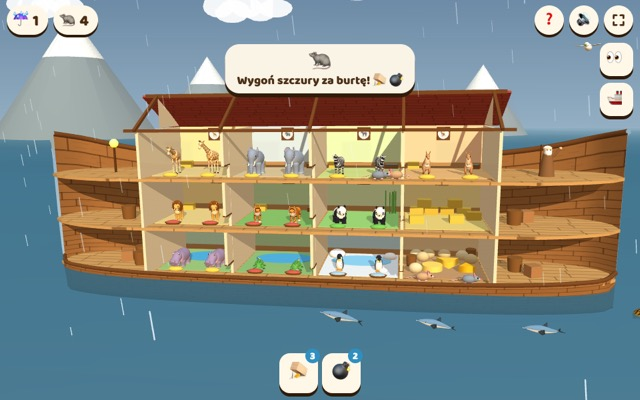
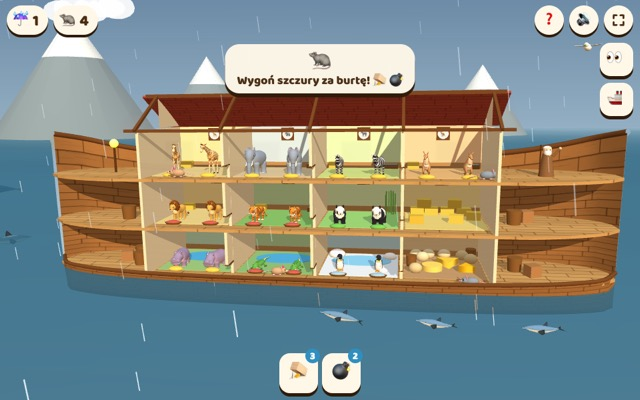
zwierzeta: taxi i żniwa na modelach z Pralni
Jedno źródło zwierząt lądowych. Taxi wozi je na dachu (ZOO.fit dopasowuje
wysokość); w żniwach słoń i żyrafa to pojazdy: ten sam model + siedzisko
(słoń: derka i kosz na bele, żyrafa: siodło), ruch przez ZOO.anim
(a.lift unosi trąbę przy chwytaniu beli).

diff --git a/models/zwierzeta.zniwa.js b/models/zwierzeta.zniwa.js
@@ -1,65 +1,33 @@
-// zwierzeta — wspólne dla: zniwa
-// wymaga z gry: M, T, scene
+// zwierzeta — pojazdy w żniwach: modele z Pralni (ZOO) + siedzisko i kierowca
+// wymaga z gry: M, T, scene, rbox, box, makeFarmer
 'use strict';
+// Grupa w układzie pojazdu, przyczepiona do tułowia (kołysze się z nim); top = grzbiet {y, z}
+function saddle(v, a) {
+  v.updateMatrixWorld(true);
+  const s = new T.Group(), b = new T.Box3().setFromObject(a.body.children[0]);
+  s.applyMatrix4(a.body.matrixWorld.clone().invert()); a.body.add(s);
+  return { s, top:{ y:b.max.y, z:(b.min.z + b.max.z)/2 } };
+}
+function rideAnimal(type, h) {
+  const { g:v, a } = ZOO.fit(type, h); scene.add(v);
+  return { g:v, inner:v, a, wheels:[], steerNodes:[], x:0, z:0, h:0, v:0, steer:0, rpm:0, walk:0, stepN:0, maxR:2.2, turnK:.5 };
+}
 function buildGiraffe() {
-  const v = new T.Group(), P = {}, sh = m => { m.castShadow = true; m.receiveShadow = true; return m; };
-  const sph = (mat, x, y, z, sx, sy, sz, p) => { const m = sh(mesh(new T.SphereGeometry(1, 18, 14), mat, x, y, z, p)); m.scale.set(sx, sy, sz); return m; };
-  const body = new T.Group(); v.add(body); P.body = body;
-  const torso = sph(M.gir, 0, 2.55, 0, .62, .7, 1.3, body); torso.rotation.x = -.16;
-  sph(M.gir, 0, 2.78, .82, .55, .74, .62, body); sph(M.gir, 0, 2.38, -.95, .56, .6, .55, body); sph(M.girL, 0, 2.05, 0, .45, .3, 1.0, body);
-  // szyja z grzywą
-  const neck = new T.Group(); neck.position.set(0, 3.0, 1.0); neck.rotation.order = 'YXZ'; body.add(neck); P.neck = neck;
-  sh(mesh(new T.CylinderGeometry(.17, .31, 2.55, 14), M.gir, 0, 1.2, 0, neck));
-  sh(box(.07, 2.35, .12, M.girD, 0, 1.3, -.23, neck));
-  // głowa
-  const head = new T.Group(); head.position.set(0, 2.45, 0); neck.add(head); P.head = head;
-  sph(M.gir, 0, .1, .1, .2, .21, .3, head); sph(M.girL, 0, .04, .47, .145, .13, .3, head); sph(M.girD, 0, .05, .74, .1, .085, .06, head);
-  [-.09, .09].forEach(x => { sh(cylY(.03, .24, M.girL, x, .37, .0, head, 8)); sph(M.girD, x, .5, 0, .05, .05, .05, head);
-    sph(M.girD, x*1.9, .14, .22, .05, .05, .05, head); const w = mesh(new T.SphereGeometry(.016, 6, 5), M.eyeW, x*2.15, .16, .25, head);
-    sph(M.girD, x*.6, .08, .76, .02, .02, .02, head); });
-  P.ears = [-1, 1].map(s => { const e = sh(mesh(new T.ConeGeometry(.075, .3, 6), M.girL, s*.3, .24, -.04, head)); e.rotation.z = -s*1.25; e.scale.z = .45; return e; });
-  P.jaw = new T.Group(); P.jaw.position.set(0, -.07, .18); head.add(P.jaw);
-  sh(box(.2, .06, .44, M.girL, 0, 0, .22, P.jaw)); box(.08, .025, .24, M.tongue, 0, .035, .42, P.jaw);
-  // nogi: biodro → kolano → kopyto
-  P.legs = [[.33, 2.25, .85, 1.15, 1.1], [-.33, 2.25, .85, 1.15, 1.1], [.33, 2.1, -.9, 1.08, 1.02], [-.33, 2.1, -.9, 1.08, 1.02]].map(L => {
-    const hip = new T.Group(); hip.position.set(L[0], L[1], L[2]); body.add(hip);
-    sh(mesh(new T.CylinderGeometry(.16, .1, L[3], 10), M.gir, 0, -L[3]/2, 0, hip)); sph(M.gir, 0, -L[3], 0, .11, .11, .11, hip);
-    const knee = new T.Group(); knee.position.y = -L[3]; hip.add(knee);
-    sh(mesh(new T.CylinderGeometry(.09, .075, L[4] - .14, 10), M.girL, 0, -(L[4] - .14)/2, 0, knee)); sh(mesh(new T.CylinderGeometry(.085, .11, .14, 10), M.hoof, 0, -L[4] + .07, 0, knee));
-    return { hip, knee }; });
-  // ogon
-  P.tail = new T.Group(); P.tail.position.set(0, 2.6, -1.4); P.tail.rotation.x = -.25; body.add(P.tail);
-  sh(cylY(.03, .95, M.girL, 0, -.47, 0, P.tail, 6)); sh(mesh(new T.ConeGeometry(.09, .4, 6), M.girD, 0, -1.1, 0, P.tail));
-  const driver = makeFarmer(.2); driver.position.set(0, 3.24, -.1); body.add(driver);
-  scene.add(v);
-  return { g:v, inner:v, P, wheels:[], steerNodes:[], driver, x:0, z:0, h:0, v:0, steer:0, rpm:0, walk:0, stepN:0, eat:0, chew:0, lastCrunch:0,
-    maxF:5.7, maxR:2.2, turnK:.5, turnRate:2.4, radius:1.9, yaw:0, ta:0, td:3, tx:0, tz:0, eye:new T.Vector3(0, 3.95, -.25), look:new T.Vector3(0, 3.3, 8),
-    chase:[11.5, 7], lookY:2.6, dust:[[.33, .85], [-.33, -.9]], baleFrom:new T.Vector3(0, 2.2, -1.5), baleTo:new T.Vector3(0, .32, -3) };
+  const G = rideAnimal('giraffe', 5.6), { s, top } = saddle(G.g, G.a);
+  rbox(.9, .08, 1.0, M.blanket, 0, top.y - .04, top.z, s, .03);
+  const driver = makeFarmer(.2); driver.position.set(0, top.y - .02, top.z); s.add(driver);
+  return Object.assign(G, { P:{ basket:s }, driver, eat:0, chew:0, lastCrunch:0, maxF:5.7, turnRate:2.4, radius:1.9, yaw:0, ta:0, td:3, tx:0, tz:0,
+    eye:new T.Vector3(0, top.y + .7, top.z - .15), look:new T.Vector3(0, 3.3, 8), chase:[11.5, 7], lookY:2.6, dust:[[.33, .85], [-.33, -.9]],
+    baleFrom:new T.Vector3(0, 2.2, -1.5), baleTo:new T.Vector3(0, .32, -3) });
 }
 function buildElephant() {
-  const v = new T.Group(), P = {}, sh = m => { m.castShadow = true; m.receiveShadow = true; return m; };
-  const sph = (mat, x, y, z, sx, sy, sz, p, seg) => { const m = sh(mesh(new T.SphereGeometry(1, seg || 18, seg ? 6 : 14), mat, x, y, z, p)); m.scale.set(sx, sy, sz); return m; };
-  const body = new T.Group(); v.add(body); P.body = body;
-  sph(M.eleph, 0, 2.25, -.1, 1.15, 1.1, 1.7, body); sph(M.eleph, 0, 2.42, .95, 1.02, 1.02, .85, body); sph(M.eleph, 0, 2.2, -1.1, 1.05, 1.0, .8, body);
-  const head = new T.Group(); head.position.set(0, 2.75, 1.8); body.add(head); P.head = head;
-  sph(M.eleph, 0, 0, 0, .72, .8, .72, head); sph(M.eleph, 0, .48, -.08, .52, .36, .5, head);
-  [-1, 1].forEach(s => { sph(M.girD, s*.44, .12, .5, .06, .07, .06, head, 8); sh(hose([[s*.3, -.35, .42], [s*.38, -.78, .72], [s*.42, -.9, 1.15], [s*.37, -.74, 1.5]], .07, M.ivory, head)); });
-  P.ears = [-1, 1].map(s => { const e = new T.Group(); e.position.set(s*.58, .15, -.15); sph(M.elephD, s*.58, -.12, 0, .62, .85, .07, e); head.add(e); return e; });
-  P.trunk = []; { let par = head; const lens = [.5, .48, .46, .44, .42], rs = [.3, .25, .21, .17, .13, .1];
-    for (let i = 0; i < 5; i++) { const g = new T.Group(); g.position.set(0, i ? -lens[i - 1] : -.32, i ? 0 : .52); par.add(g);
-      sh(mesh(new T.CylinderGeometry(rs[i], rs[i + 1], lens[i] + .08, 10), M.eleph, 0, -lens[i]/2, 0, g)); P.trunk.push(g); par = g; } }
-  P.legs = [[.62, 1.65, .95], [-.62, 1.65, .95], [.62, 1.6, -1.05], [-.62, 1.6, -1.05]].map(L => { const hip = new T.Group(); hip.position.set(L[0], L[1], L[2]); body.add(hip);
-    sh(mesh(new T.CylinderGeometry(.37, .3, L[1], 12), M.eleph, 0, -L[1]/2, 0, hip)); sh(mesh(new T.CylinderGeometry(.32, .35, .16, 12), M.elephD, 0, -L[1] + .08, 0, hip));
-    [-1, 0, 1].forEach(a => sph(M.ivory, a*.15, -L[1] + .07, .3 - Math.abs(a)*.04, .07, .07, .05, hip, 8)); return hip; });
-  P.tail = new T.Group(); P.tail.position.set(0, 2.5, -1.85); P.tail.rotation.x = -.2; body.add(P.tail);
-  sh(cylY(.05, 1.0, M.eleph, 0, -.5, 0, P.tail, 6)); sh(mesh(new T.ConeGeometry(.1, .32, 6), M.girD, 0, -1.1, 0, P.tail));
+  const E = rideAnimal('elephant', 3.6), { s, top } = saddle(E.g, E.a), y = top.y, z = top.z;
   // derka i kosz na słomę
-  sh(rbox(2.0, .1, 2.3, M.blanket, 0, 3.3, -.35, body, .05)); [1.1, -1.1].forEach(x => { sh(rbox(.08, .95, 2.1, M.blanket, x, 2.86, -.35, body, .03)); box(.09, .1, 2.1, M.impY, x, 2.42, -.35, body); });
-  P.basket = new T.Group(); P.basket.position.set(0, 3.38, -.72); body.add(P.basket);
-  sh(rbox(2.4, .1, 2.3, M.woodL, 0, 0, 0, P.basket, .03)); [1.15, -1.15].forEach(z => box(2.4, .3, .06, M.woodL, 0, .2, z, P.basket)); [1.2, -1.2].forEach(x => box(.06, .3, 2.3, M.woodL, x, .2, 0, P.basket));
-  const driver = makeFarmer(.3); driver.position.set(0, 3.32, .85); body.add(driver);
-  scene.add(v);
-  return { g:v, inner:v, P, wheels:[], steerNodes:[], driver, x:0, z:0, h:0, v:0, steer:0, rpm:0, walk:0, stepN:0, grab:0,
-    maxF:5.4, maxR:2.0, turnK:.5, turnRate:2.2, radius:2.4, eye:new T.Vector3(0, 4.5, .3), look:new T.Vector3(0, 3.5, 9),
-    chase:[13.5, 7.5], lookY:2.4, dust:[[.62, .95], [-.62, -1.05]] };
+  rbox(2.0, .1, 2.3, M.blanket, 0, y - .05, z - .35, s, .05);
+  [1.1, -1.1].forEach(x => { rbox(.08, .95, 2.1, M.blanket, x, y - .49, z - .35, s, .03); box(.09, .1, 2.1, M.impY, x, y - .93, z - .35, s); });
+  const basket = new T.Group(); basket.position.set(0, y + .03, z - .72); s.add(basket);
+  rbox(2.4, .1, 2.3, M.woodL, 0, 0, 0, basket, .03); [1.15, -1.15].forEach(q => box(2.4, .3, .06, M.woodL, 0, .2, q, basket)); [1.2, -1.2].forEach(x => box(.06, .3, 2.3, M.woodL, x, .2, 0, basket));
+  const driver = makeFarmer(.3); driver.position.set(0, y - .03, z + 1.2); s.add(driver);
+  return Object.assign(E, { P:{ basket }, driver, grab:0, maxF:5.4, maxR:2.0, turnRate:2.2, radius:2.4,
+    eye:new T.Vector3(0, y + 1.15, z + 1.4), look:new T.Vector3(0, 3.5, 9), chase:[13.5, 7.5], lookY:2.4, dust:[[.62, .95], [-.62, -1.05]] });
 }

diff --git a/zniwa/game.js b/zniwa/game.js
@@ -449,23 +449,13 @@ function updateLugs(P, t) { let i = 0;
 /* =====================================================================
    ŻYRAFA (trzeci „pojazd”: zjada łan, jedzie się na grzbiecie)
    ===================================================================== */
-const girTex = tex(256, 256, (g, w) => { g.fillStyle = '#f3deb0'; g.fillRect(0, 0, w, w);
-  const n = 6, c = w/n;
-  for (let i = 0; i < n; i++) for (let j = 0; j < n; j++) { const cx = (i + .5)*c + rr(-7, 7), cy = (j + .5)*c + rr(-7, 7), k = 6 + ((rnd()*3) | 0);
-    g.fillStyle = ['#9a5a22', '#8a4c1a', '#a8642a'][(i + j*2) % 3]; g.beginPath();
-    for (let q = 0; q < k; q++) { const a = q/k*6.283 + rr(-.2, .2), r = c*rr(.36, .47), x = cx + Math.cos(a)*r, y = cy + Math.sin(a)*r; q ? g.lineTo(x, y) : g.moveTo(x, y); }
-    g.closePath(); g.fill(); } }, 2, 2);
-Object.assign(M, { gir:lam(0xffffff, { map:girTex }), girL:lam(0xf3deb0), girD:lam(0x5a3414), hoof:lam(0x2d2118), tongue:lam(0x6b4a86), eyeW:new T.MeshBasicMaterial({ color:0xffffff }) });
 
 const uncutAt = (x, z) => { const cx = Math.floor(x - X0), cz = Math.floor(z - Z0); return cx >= 0 && cz >= 0 && cx < FW && cz < FD && !cut[cz*FW + cx]; };
 function updateGiraffe(dt) {
-  const G = veh.giraffe, P = G.P, on = S.active === 'giraffe', sp = Math.abs(G.v), amt = Math.min(1, sp/1.5);
-  G.walk += sp*dt*1.5;
-  P.legs.forEach((L, i) => { const ph = G.walk + (i % 2 ? Math.PI : 0) + (i > 1 ? .5 : 0);
-    L.hip.rotation.x = Math.sin(ph)*.42*amt; L.knee.rotation.x = Math.max(0, Math.sin(ph + 1.3))*.75*amt; });
-  P.body.position.y = Math.abs(Math.sin(G.walk))*.07*amt;
+  const G = veh.giraffe, a = G.a, on = S.active === 'giraffe', sp = Math.abs(G.v), amt = Math.min(1, sp/1.5);
+  G.walk += sp*dt*1.5; a.moving = amt > .1; a.gait = sp*3;
   const stepN = Math.floor(G.walk/Math.PI); if (stepN !== G.stepN) { G.stepN = stepN; if (on && amt > .2) sfx.step(); }
-  P.tail.rotation.z = Math.sin(time*2.3)*.35; P.ears[0].rotation.x = Math.sin(time*3.1)*.2; P.ears[1].rotation.x = Math.sin(time*2.6 + 2)*.2;
+  ZOO.anim(a, dt);
   let want = 0;                                    // czy przed pyskiem coś rośnie?
   if (on) { const sh = Math.sin(G.h), ch = Math.cos(G.h);
     const R = 5.4; let best = 1e9;                 // szuka najbliższej rośliny dookoła, nie tylko z przodu
@@ -474,36 +464,34 @@ function updateGiraffe(dt) {
       const sc = d + Math.abs(an)*.9; if (sc < best) { best = sc; want = 1; G.tx = wx; G.tz = wz; G.ta = an; G.td = d; } } }
   G.eat += (want - G.eat)*Math.min(1, dt*6);
   G.yaw += ((want ? G.ta : 0) - G.yaw)*Math.min(1, dt*7); const near = 1 - clamp((G.td - 1.5)/3, 0, 1);
-  P.neck.rotation.set(.36 + G.eat*(1.75 + near*.55) + Math.sin(G.walk*2)*.03*amt, G.yaw*G.eat + Math.sin(time*5)*.07*G.eat, 0);
-  P.head.rotation.x = .32 - G.eat*1.3;
+  // szyja w dół, do najbliższej rośliny (ZOO.anim ustawia tylko pochylenie bazowe)
+  a.neck.rotation.z -= G.eat*(1.6 + near*.5); a.neck.rotation.y = G.yaw*G.eat + Math.sin(time*5)*.07*G.eat; a.head.rotation.z += G.eat*1.1;
   if (on && want && G.eat > .7 && Math.abs(G.yaw - G.ta) < .6) {
     const hx = G.tx, hz = G.tz, before = cutCount;
     for (let a = -1.1; a <= 1.11; a += 1.1) for (let b = -1.1; b <= 1.11; b += 1.1) harvestAt(hx + a, hz + b);
     if (cutCount > before) { G.chew = 1; if (time - G.lastCrunch > .14) { G.lastCrunch = time; sfx.crunch(); } } }
   G.chew = Math.max(0, G.chew - dt*1.1);
-  P.jaw.rotation.x = Math.abs(Math.sin(time*11))*.4*Math.min(1, G.chew*3);
+  a.open = Math.max(a.open, Math.abs(Math.sin(time*11))*Math.min(1, G.chew*3));
 }
 
 /* =====================================================================
    DUŻY TRAKTOR Z NARZĘDZIAMI (pług, siewnik, prasa) I SŁOŃ
    ===================================================================== */
-Object.assign(M, { bBlue:pho(0x1f5fb8), bBlueD:pho(0x174a90), eleph:lam(0x8f9199), elephD:lam(0x73757c), ivory:lam(0xf5efdc), blanket:lam(0xc23b2e),
+Object.assign(M, { bBlue:pho(0x1f5fb8), bBlueD:pho(0x174a90), blanket:lam(0xc23b2e),
   imp:pho(0xd8301f), impY:pho(0xf2c21f), soilP:lam(0x4e3520) });
 
 const TOOLS = ['plough', 'seeder', 'baler'], TOOL_Z = { plough:-4.3, seeder:-4.0, baler:-3.3 }, TOOL_LBL = { plough:['🟤', 'Pług'], seeder:['🌱', 'Siewnik'], baler:['🌀', 'Prasa'] };
 
-const TRUNK = { rest:[-.25, -.1, .15, .35, .5], reach:[-1.0, -.25, 0, .1, .25], lift:[-2.3, -.5, -.45, -.35, -.25] };
+// uniesienie trąby (ZOO a.lift) w fazach chwytania beli: sięga w dół, podnosi, wraca
+const TRUNK = { rest:0, reach:-.6, lift:2.2 };
 function updateElephant(dt) {
-  const E = veh.elephant, P = E.P, on = S.active === 'elephant', sp = Math.abs(E.v), amt = Math.min(1, sp/1.5);
-  E.walk += sp*dt*1.15;
-  P.legs.forEach((L, i) => { L.rotation.x = Math.sin(E.walk + (i === 0 || i === 3 ? 0 : Math.PI))*.3*amt; });
-  P.body.position.y = Math.abs(Math.sin(E.walk))*.06*amt; P.body.rotation.z = Math.sin(E.walk)*.025*amt;
+  const E = veh.elephant, a = E.a, on = S.active === 'elephant', sp = Math.abs(E.v), amt = Math.min(1, sp/1.5);
+  E.walk += sp*dt*1.15; a.moving = amt > .1; a.gait = sp*2.3;
   const stepN = Math.floor(E.walk/Math.PI); if (stepN !== E.stepN) { E.stepN = stepN; if (on && amt > .2) sfx.estep(); }
-  P.tail.rotation.z = Math.sin(time*1.8)*.3; P.ears[0].rotation.y = -.45 - Math.sin(time*2.2)*.3; P.ears[1].rotation.y = .45 + Math.sin(time*2.2 + .6)*.3;
   E.grab = Math.max(0, E.grab - dt*1.3); const p = E.grab > 0 ? 1 - E.grab : 1;
-  let a = TRUNK.rest, b = TRUNK.rest, k = 0; if (p < .3) { b = TRUNK.reach; k = p/.3; } else if (p < .65) { a = TRUNK.reach; b = TRUNK.lift; k = (p - .3)/.35; } else if (p < 1) { a = TRUNK.lift; k = (p - .65)/.35; }
-  const sway = Math.sin(time*1.5)*.08; P.trunk.forEach((g, i) => { g.rotation.x = a[i] + (b[i] - a[i])*k + (i > 1 ? sway : 0); });
-  P.head.rotation.x = Math.sin(E.walk*2)*.03*amt;
+  const lerp = T.MathUtils.lerp;
+  a.lift = p < .3 ? lerp(TRUNK.rest, TRUNK.reach, p/.3) : p < .65 ? lerp(TRUNK.reach, TRUNK.lift, (p - .3)/.35) : lerp(TRUNK.lift, TRUNK.rest, Math.min(1, (p - .65)/.35));
+  ZOO.anim(a, dt);
 }
 
 /* =====================================================================

diff --git a/taxi/game.js b/taxi/game.js
@@ -915,8 +915,10 @@ const beacon = new T.Group(), outP = pedMats(0xf08a2a), arrow = new T.Group();
   const geo = new T.ExtrudeGeometry(s, { depth:.4, bevelEnabled:false }); geo.rotateX(Math.PI/2);
   arrow.userData.m = new T.MeshBasicMaterial({ color:0x35e04a, fog:false, depthTest:false, transparent:true }); const edge = new T.MeshBasicMaterial({ color:0x1c1c1e, fog:false, depthTest:false, transparent:true });
   const dial = new T.Group(), e = new T.Mesh(geo, edge); e.scale.set(1.2, 1, 1.12); e.position.y = -.14; e.renderOrder = 9; dial.add(e); const a = new T.Mesh(geo, arrow.userData.m); a.renderOrder = 10; dial.add(a); arrow.add(dial); arrow.userData.dial = dial; arrow.rotation.order = 'YXZ'; arrow.visible = false; scene.add(arrow); }
-const ZOOA = [{ name:'Żyrafa', ico:'🦒', g:mkGiraffe(), s:.8, rs:.4, top:5.6, snd:'hum' }, { name:'Słoń', ico:'🐘', g:mkElephant(), s:.75, rs:.36, top:3.4, snd:'trumpet' }, { name:'Lew', ico:'🦁', g:mkLion(), s:1.15, rs:.62, top:2.2, snd:'roar' },
-  { name:'Pingwin', ico:'🐧', g:mkPenguin(), s:1.9, rs:1.1, top:2.4, snd:'peep' }, { name:'Krowa', ico:'🐄', g:cloneTpl(cowTpl[0], true), s:1.1, rs:.55, top:2.6, snd:'moo' }];
+// zwierzęta z Pralni (models/zwierzeta.js), dopasowane wysokością; ruch przez anims
+const zoo = (type, h) => { const { g, a } = ZOO.fit(type, h); let last = 0; anims.push(t => { ZOO.anim(a, Math.min(.1, t - last)); last = t; }); return g; };
+const ZOOA = [{ name:'Żyrafa', ico:'🦒', g:zoo('giraffe', 6.2), s:.8, rs:.4, top:5.6, snd:'hum' }, { name:'Słoń', ico:'🐘', g:zoo('elephant', 3.15), s:.75, rs:.36, top:3.4, snd:'trumpet' }, { name:'Lew', ico:'🦁', g:zoo('lion', 1.4), s:1.15, rs:.62, top:2.2, snd:'roar' },
+  { name:'Pingwin', ico:'🐧', g:zoo('penguin', .9), s:1.9, rs:1.1, top:2.4, snd:'peep' }, { name:'Krowa', ico:'🐄', g:cloneTpl(cowTpl[0], true), s:1.1, rs:.55, top:2.6, snd:'moo' }];
 ZOOA.forEach(a => { a.g.visible = false; a.busy = false; scene.add(a.g); });
 const ROOF = { taxi:[1.74, -.35], race:[1.2, -1.75], bus:[2.98, -.5], ursus:[1.22, .75], police:[1.74, -1.1], plane:[2.3, .6] };
 function mountAnimal(a, i) { const r = ROOF[AK]; pc.inner.add(a.g); a.g.position.set(0, r[0], r[1] + (AK === 'bus' ? ((i || 0) - 1)*2.6 : 0)); a.g.rotation.set(0, 0, 0); a.g.scale.setScalar(a.rs/(AK === 'ursus' ? 1.35 : 1)); a.g.visible = true; }
@@ -1102,7 +1104,7 @@ function hoopsStep(dt) {
    WYDARZENIA W MIEŚCIE: ucieczka pingwinów, złodziej lodów, deszcz gwiazdek
    ===================================================================== */
 const evPeng = [], evStars = [];
-for (let k = 0; k < 6; k++) { const g = mkPenguin(); g.scale.setScalar(2.1); g.visible = false; scene.add(g); evPeng.push({ g, on:false, x:0, z:0, h:0 }); }
+for (let k = 0; k < 6; k++) { const g = zoo('penguin', .9); g.scale.setScalar(2.1); g.visible = false; scene.add(g); evPeng.push({ g, on:false, x:0, z:0, h:0 }); }
 for (let k = 0; k < 18; k++) { const m = new T.Mesh(starGeo, starMat); m.visible = false; scene.add(m); evStars.push({ m, on:false, x:0, z:0 }); }
 const thief = { g:vc(aiModel(0x8e3fc2, 2)), R:2, vmax:13.5, thief:true, off:true };
 { const pk = new T.MeshBasicMaterial({ color:0xff8fc8 }), wf = new T.MeshBasicMaterial({ color:0xe0a85a }), rd = new T.MeshBasicMaterial({ color:0xff2a1a, fog:false });

diff --git a/models/zwierzeta.js b/models/zwierzeta.js
@@ -4,6 +4,7 @@
 const ZOO = (() => {
 'use strict';
 const T=THREE,PI=Math.PI,cfg={scale:1,cast:true};
+const lerp=(a,b,t)=>a+(b-a)*t;
 const rnd=(a=1,b)=>b===undefined?Math.random()*a:a+Math.random()*(b-a);
 const pick=a=>a[Math.random()*a.length|0];
 const V=(x=0,y=0,z=0)=>new T.Vector3(x,y,z);
@@ -199,8 +200,10 @@ function anim(a,dt){a.t+=dt;const walk=a.moving&&!a.slide;if(walk)a.ph+=dt*a.gai
   if(a.neck)a.neck.rotation.z=a.neckBase+Math.sin(a.t*.9+a.seed)*.04+a.blown*.08-ek*(a.type==='giraffe'?1.05:.55);
   a.blink-=dt;if(a.blink<-.12)a.blink=rnd(2,5);const by=(a.blink<0||a.tickle>.6)?.15:1;for(const e of a.eyes)e.scale.y=by;
   const op=happy?1:(a.tickle>.3?.6:(Math.sin(a.t*.5+a.seed)>.93?.8:0));a.open+=(op-a.open)*Math.min(1,dt*8);if(a.jaw)a.jaw.rotation.z=-a.open*.55;
-  for(let i=0;i<a.trunk.length;i++){const g=a.trunk[i],lift=happy?(i===0?.5:i<5?.38:.1):0;g.rotation.z+=(g.userData.b+lift+Math.sin(a.t*1.8+i*.5)*.05+a.tickle*Math.sin(a.t*20+i)*.04-g.rotation.z)*Math.min(1,dt*8);}
+  for(let i=0;i<a.trunk.length;i++){const g=a.trunk[i],lift=(happy?1:a.lift||0)*(i===0?.5:i<5?.38:.1);g.rotation.z+=(g.userData.b+lift+Math.sin(a.t*1.8+i*.5)*.05+a.tickle*Math.sin(a.t*20+i)*.04-g.rotation.z)*Math.min(1,dt*8);}
   for(let i=0;i<a.ctail.length;i++)a.ctail[i].rotation.y=Math.sin(a.t*2.2-i*.6)*.13*(walk?1.6:1)*(happy?2:1);}
 const MK={elephant:mkElephant,giraffe:mkGiraffe,zebra:mkZebra,hippo:mkHippo,crocodile:mkCroc,lion:mkLion,tiger:mkTiger,panda:mkPanda,penguin:mkPenguin,kangaroo:mkKangaroo};
-return {cfg,MK,anim,rnd,pick,V,canvasTex,M,MT,cg,G,mesh,ball,box,grp,merge,flat,mergeC,mW,mK,MV,texGir,texZeb,texTig};
+// model dla innych gier: przód +Z, środek długości w 0, wysokość h; k = skala świata
+function fit(type,h){const a=MK[type](),g=new T.Group(),w=grp(g),k=h/a.dims.h;w.add(a.root);a.root.position.x=-a.cx;w.rotation.y=-PI/2;w.scale.setScalar(k);return {g,a,k:k*a.root.scale.x};}
+return {cfg,MK,fit,anim,rnd,pick,V,canvasTex,M,MT,cg,G,mesh,ball,box,grp,merge,flat,mergeC,mW,mK,MV,texGir,texZeb,texTig};
 })();

diff --git a/galeria/modele.js b/galeria/modele.js
@@ -10,14 +10,17 @@ const MORZE = [['delfin', 'Dolphin'], ['wieloryb', 'Whale'], ['rekin', 'Shark'],
 
 const MODELE = [
   ...ZOO.map(([typ, f]) => ({ kat: 'zwierzęta', typ, gra: 'pralnia', plik: '', js: `ZOO.MK.${f}()` })),
+  // pojazdy w żniwach: ten sam model + siedzisko
+  { kat: 'zwierzęta', typ: 'słoń', gra: 'zniwa', js: 'buildElephant()' },
+  { kat: 'zwierzęta', typ: 'żyrafa', gra: 'zniwa', js: 'buildGiraffe()' },
   { kat: 'zwierzęta', typ: 'szczur', gra: 'arka', js: 'ratGeo(0x8794a6, 0xb7c0cc, false)' },
   { kat: 'zwierzęta', typ: 'szczur', gra: 'arka', js: 'ratGeo(0xc9a27e, 0xe6cdb0, true)' },
 
   ...MORZE.map(([typ, f]) => ({ kat: 'morze', typ, gra: 'rafa', plik: '', js: `make${f}()` })),
-  ...['Clown', 'Puffer', 'Crab', 'Octo', 'Moray'].map(f => ({ kat: 'morze', typ: f.toLowerCase(), gra: 'rafa', js: `make${f}()` })),
-  { kat: 'morze', typ: 'konik morski', gra: 'rafa', js: 'seahorseGeo()' },
-  { kat: 'morze', typ: 'meduza', gra: 'rafa', js: 'jellyGeos()' },
-  ...RAFA_RYBY.map(k => ({ kat: 'morze', typ: 'ryba ' + k, gra: 'rafa', js: `speciesGeo('${k}')` })),
+  ...['Clown', 'Puffer', 'Crab', 'Octo', 'Moray'].map(f => ({ kat: 'morze', typ: f.toLowerCase(), gra: 'rafa', plik: '', js: `make${f}()` })),
+  { kat: 'morze', typ: 'konik morski', gra: 'rafa', plik: '', js: 'seahorseGeo()' },
+  { kat: 'morze', typ: 'meduza', gra: 'rafa', plik: '', js: 'jellyGeos()' },
+  ...RAFA_RYBY.map(k => ({ kat: 'morze', typ: 'ryba ' + k, gra: 'rafa', plik: '', js: `speciesGeo('${k}')` })),
 
   { kat: 'ludzie', typ: 'rolnik', gra: 'ciuchcia', plik: 'ciuchcia-taxi-zniwa', js: 'makeFarmer()' },
 

diff --git a/zniwa/index.html b/zniwa/index.html
@@ -206,6 +206,7 @@ h1{font-size:clamp(2.3rem,11vmin,3.6rem);line-height:.95;margin:0;font-weight:80
 <script src="../models/pojazdy.ciuchcia-taxi-zniwa.js"></script>
 <script src="../models/przyroda.zniwa.js"></script>
 <script src="../models/rolnicze.zniwa.js"></script>
+<script src="../models/zwierzeta.js"></script>
 <script src="../models/zwierzeta.zniwa.js"></script>
 <script src="game.js"></script>
 </body>

diff --git a/taxi/index.html b/taxi/index.html
@@ -186,7 +186,7 @@ h1{font-size:clamp(2.1rem,10vmin,3.3rem);line-height:.95;margin:0;font-weight:80
 <script src="../models/ludzie.taxi.js"></script>
 <script src="../models/pojazdy.taxi.js"></script>
 <script src="../models/rolnicze.taxi.js"></script>
-<script src="../models/zwierzeta.taxi.js"></script>
+<script src="../models/zwierzeta.js"></script>
 <script src="game.js"></script>
 </body>
 </html>

diff --git a/README.md b/README.md
@@ -19,7 +19,7 @@ flowchart LR
 
 - Zwykłe skrypty, wspólny zasięg globalny; kolejność w `<gra>/index.html`.
 - Nazwa pliku = gry, które go używają. Kod identyczny w kilku grach jest w jednym pliku; różniące się kopie leżą obok siebie jako warianty — do wybrania najlepszego.
-- Moduły samodzielne (własne helpery, jeden obiekt globalny): `models/zwierzeta.js` → `ZOO` (pralnia, arka), `models/morze.js` → `MORZE` (rafa, arka; `MORZE_CFG={water:false}` nad wodą).
+- Moduły samodzielne (własne helpery, jeden obiekt globalny): `models/zwierzeta.js` → `ZOO` (pralnia, arka, taxi, żniwa), `models/morze.js` → `MORZE` (rafa, arka; `MORZE_CFG={water:false}` nad wodą).
 - `// wymaga z gry:` w nagłówku — zmienne, które plik nadal bierze z `game.js` (materiały, `scene`…).
 - `orig/` — oryginalne artefakty; `tools/split.mjs` zrobił z nich obecny podział (jednorazowo, dalej edytujemy pliki gier).
 
@@ -54,9 +54,8 @@ flowchart LR
 | `models/rolnicze.ciuchcia-taxi.js` | 89 | buildTractor |
 | `models/rolnicze.taxi.js` | 13 | buildKombajn |
 | `models/rolnicze.zniwa.js` | 357 | makeScrew buildCombine buildPlough buildSeeder buildBaler buildBigTractor buildTractor buildTrailer |
-| `models/zwierzeta.js` | 206 | ZOO: MK.elephant…kangaroo, anim, cfg {scale, cast} |
-| `models/zwierzeta.taxi.js` | 50 | mkGiraffe mkElephant mkLion mkPenguin |
-| `models/zwierzeta.zniwa.js` | 65 | buildGiraffe buildElephant |
+| `models/zwierzeta.js` | 209 | ZOO: MK.elephant…kangaroo, fit(typ, wysokość), anim, cfg {scale, cast} |
+| `models/zwierzeta.zniwa.js` | 33 | saddle rideAnimal buildGiraffe buildElephant (ZOO + siedzisko) |
 
 ## Narzędzia
 
